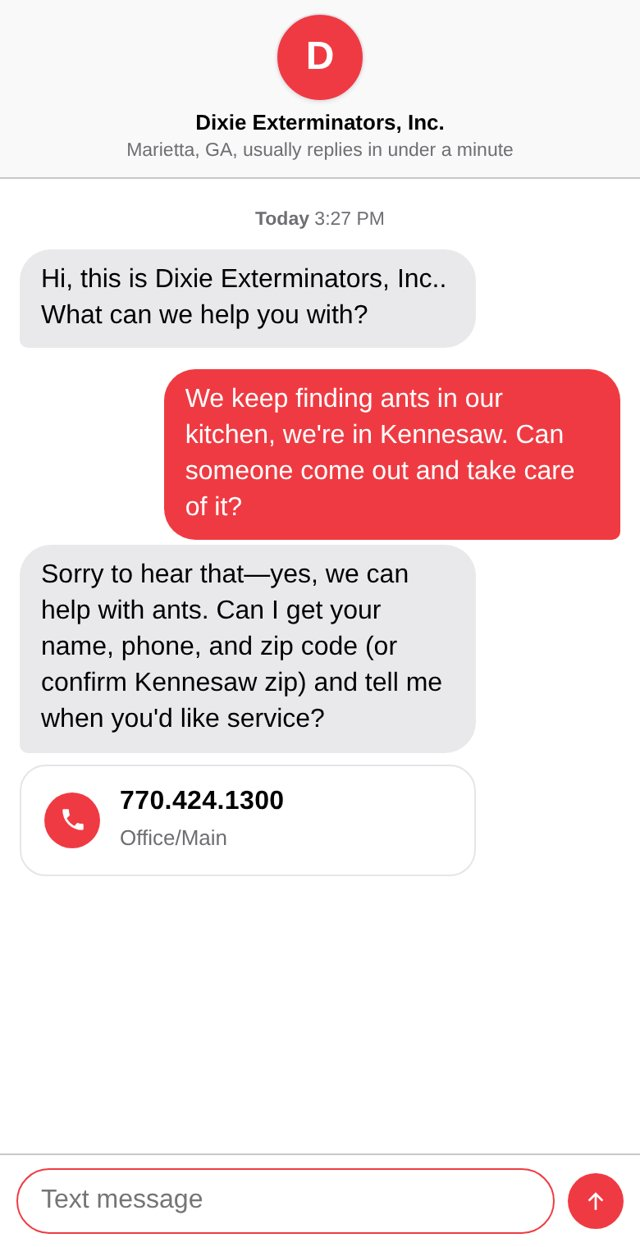
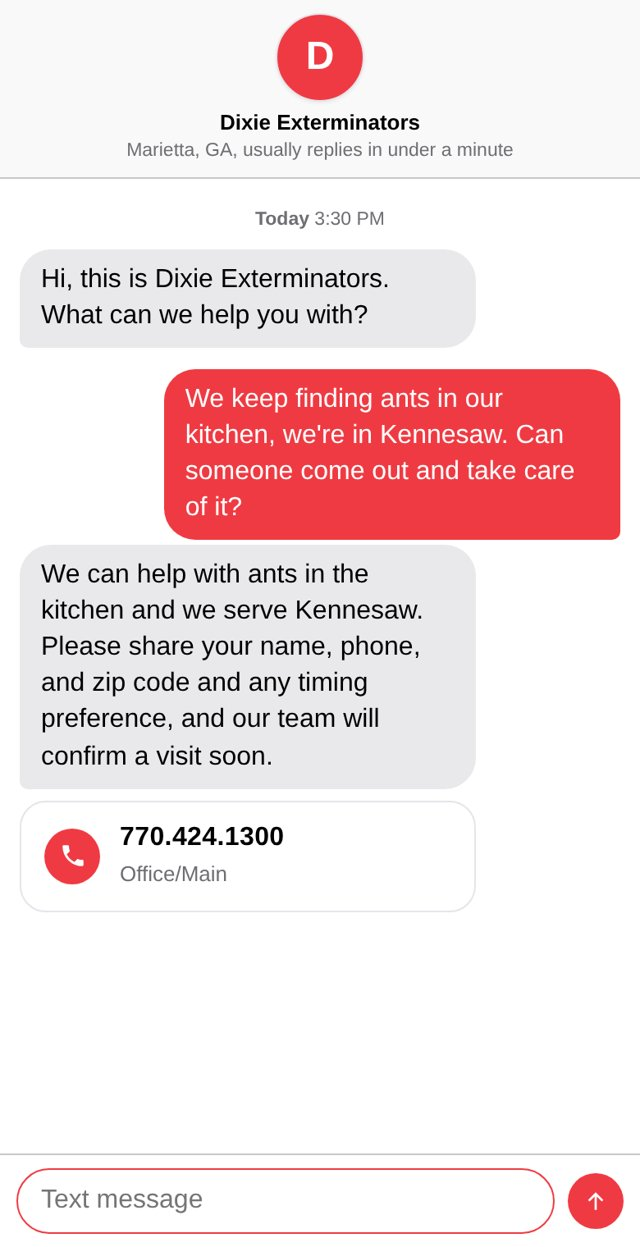
dixie-exterminators chat

diff --git a/dixie-exterminators/index.html b/dixie-exterminators/index.html
@@ -1,13 +1,13 @@
 <!doctype html><html lang="en"><head><meta charset="utf-8"><meta name="viewport" content="width=device-width,initial-scale=1">
-<meta name="robots" content="noindex,nofollow"><title>A website assistant for Dixie Exterminators, Inc.</title><style>body{margin:0;font-family:-apple-system,Segoe UI,Roboto,sans-serif;background:#f4f5f7;color:#1b2430}
+<meta name="robots" content="noindex,nofollow"><title>A website assistant for Dixie Exterminators</title><style>body{margin:0;font-family:-apple-system,Segoe UI,Roboto,sans-serif;background:#f4f5f7;color:#1b2430}
 main{max-width:760px;margin:0 auto;padding:28px 18px 40px}h1{font-size:22px;line-height:1.3;margin:0 0 8px}
 p{line-height:1.55;color:#4a5566;margin:0 0 18px}.due{display:flex;gap:14px;justify-content:center;margin:0 0 22px}
 .due figure{margin:0;flex:1;max-width:340px}.due img,img.shot{width:100%;display:block;border-radius:18px;box-shadow:0 14px 40px rgba(15,25,45,.2)}
 img.shot{max-width:360px;margin:0 auto 22px}figcaption{text-align:center;font-weight:700;margin-top:8px;color:#4a5566}
 a.btn{display:block;max-width:420px;margin:0 auto;text-align:center;background:#1f66e0;color:#fff;text-decoration:none;font-weight:700;padding:15px;border-radius:14px;font-size:16px}
 small{display:block;text-align:center;color:#7a8596;margin-top:16px;font-size:12.5px}</style></head><body><main>
-<h1>A website assistant for Dixie Exterminators, Inc.</h1><p>It answers your website visitors instantly, day or night, using only what's on your website, and sends you their name, number and what they need.</p><img class="shot" src="screenshot.jpg" alt="Preview of the assistant on your website">
-<a class="btn" href="https://wpsani.store/demo/d/9167c429">Try it live</a>
+<h1>A website assistant for Dixie Exterminators</h1><p>It answers your website visitors instantly, day or night, using only what's on your website, and sends you their name, number and what they need.</p><img class="shot" src="screenshot.jpg" alt="Preview of the assistant on your website">
+<a class="btn" href="https://wpsani.store/demo/d/1c9434ca">Try it live</a>
 <small>Private demo built by Federico Sanua, independent web developer, sanuafederico@gmail.com</small>
-<img src="https://wpsani.store/demo/p/9167c429.gif" width="1" height="1" alt="" style="position:absolute;left:-9999px">
+<img src="https://wpsani.store/demo/p/1c9434ca.gif" width="1" height="1" alt="" style="position:absolute;left:-9999px">
 </main></body></html>
